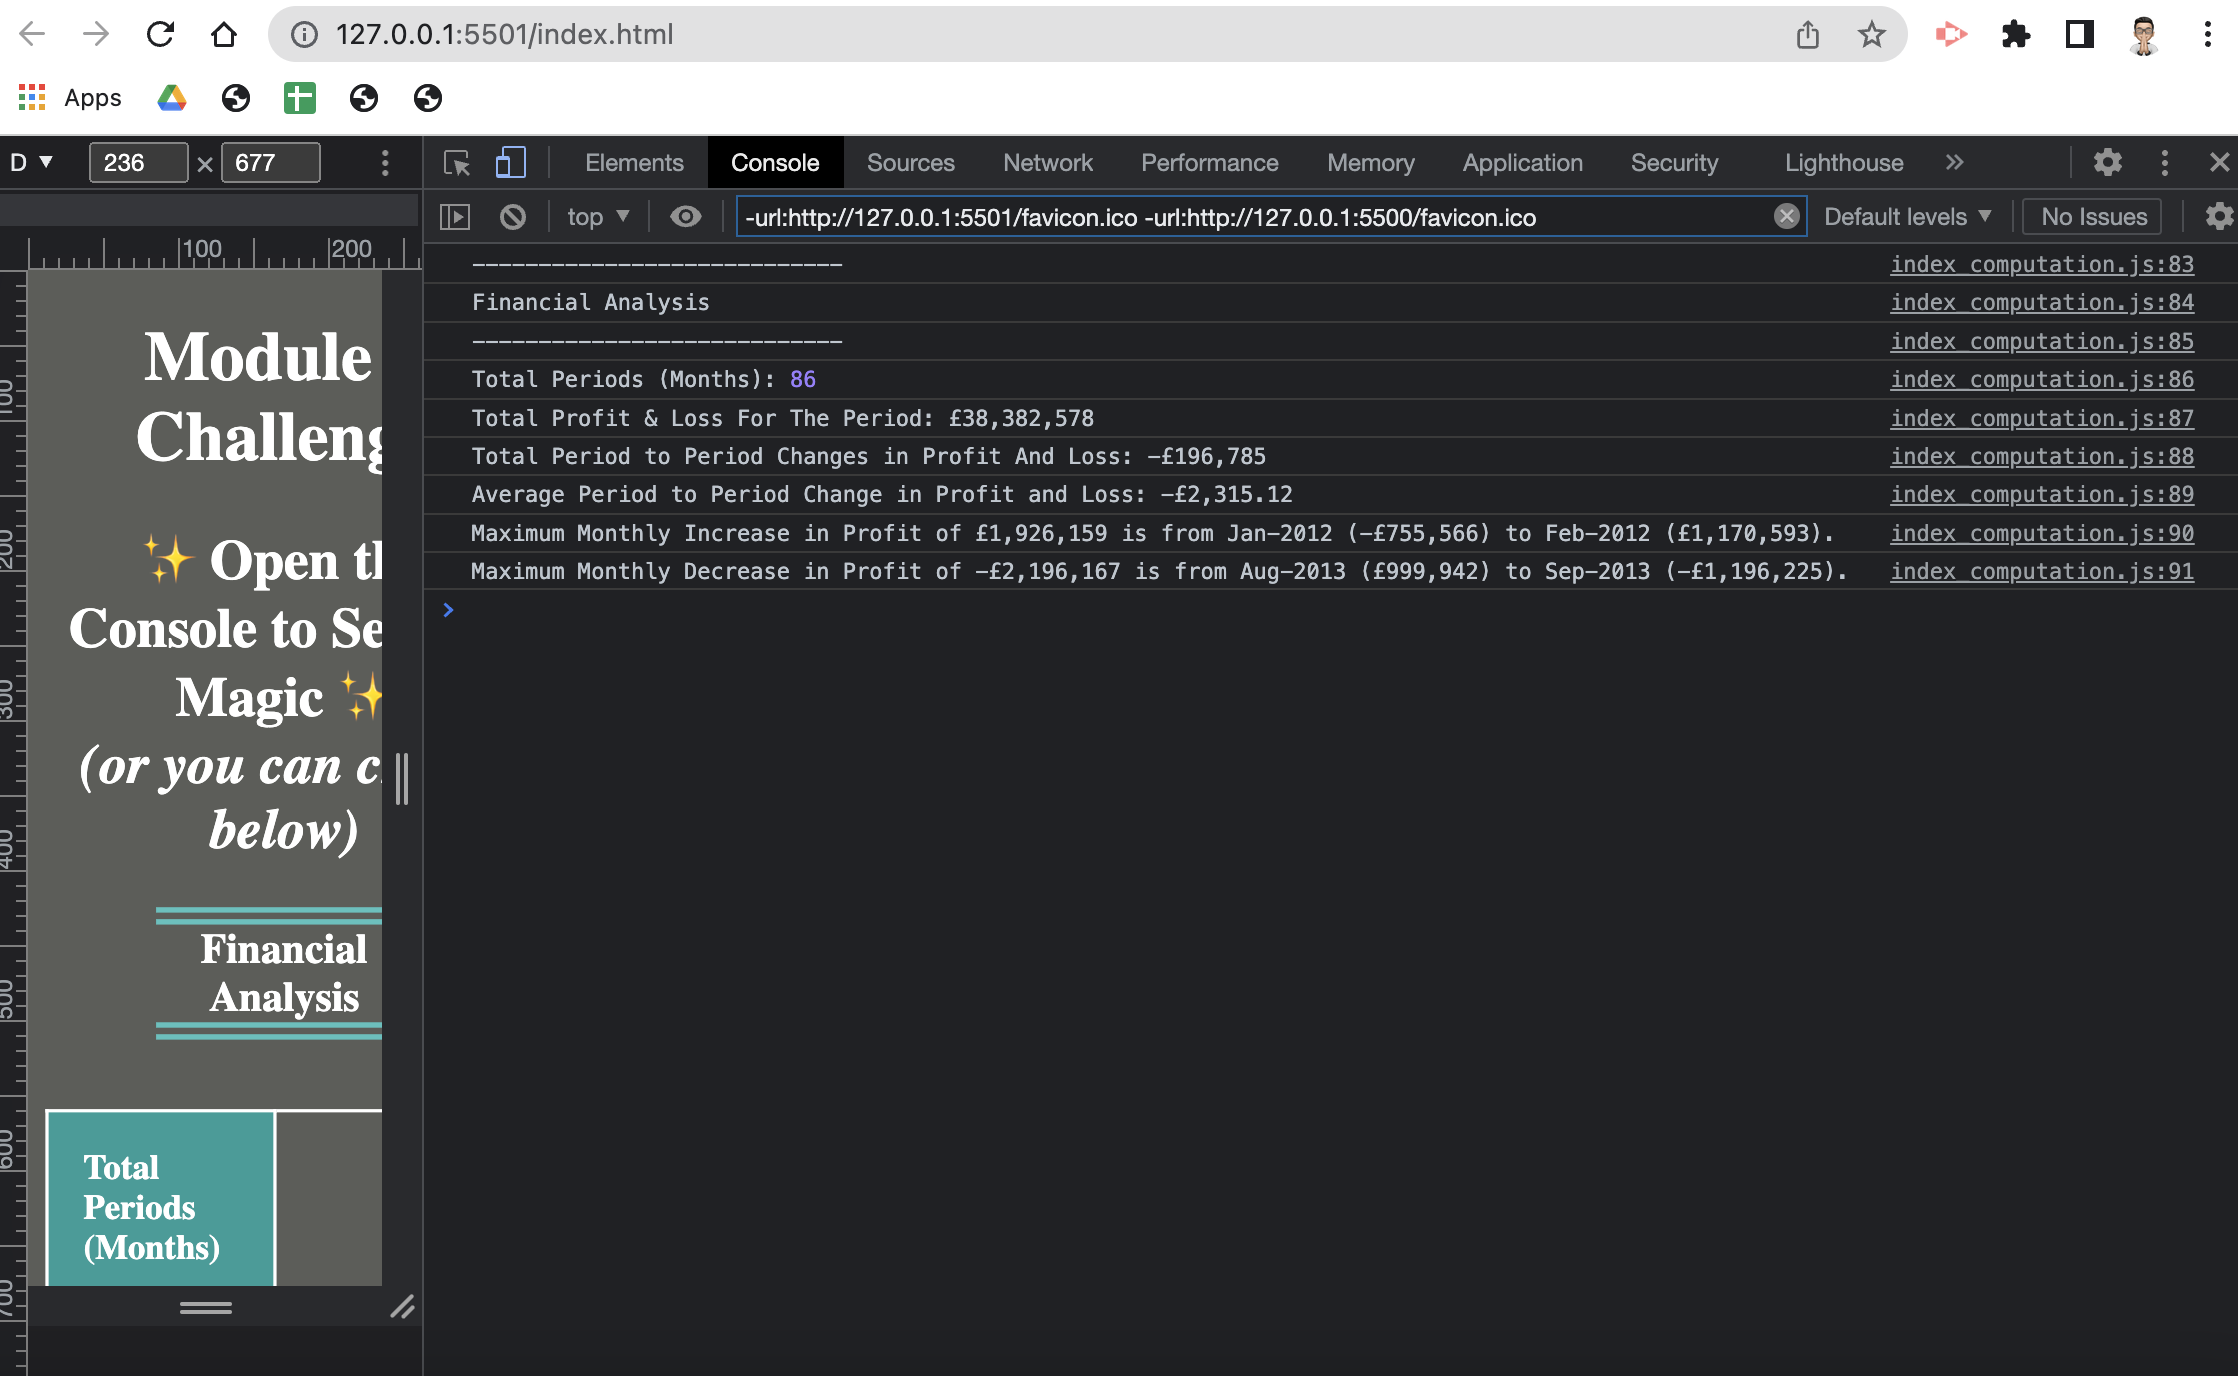
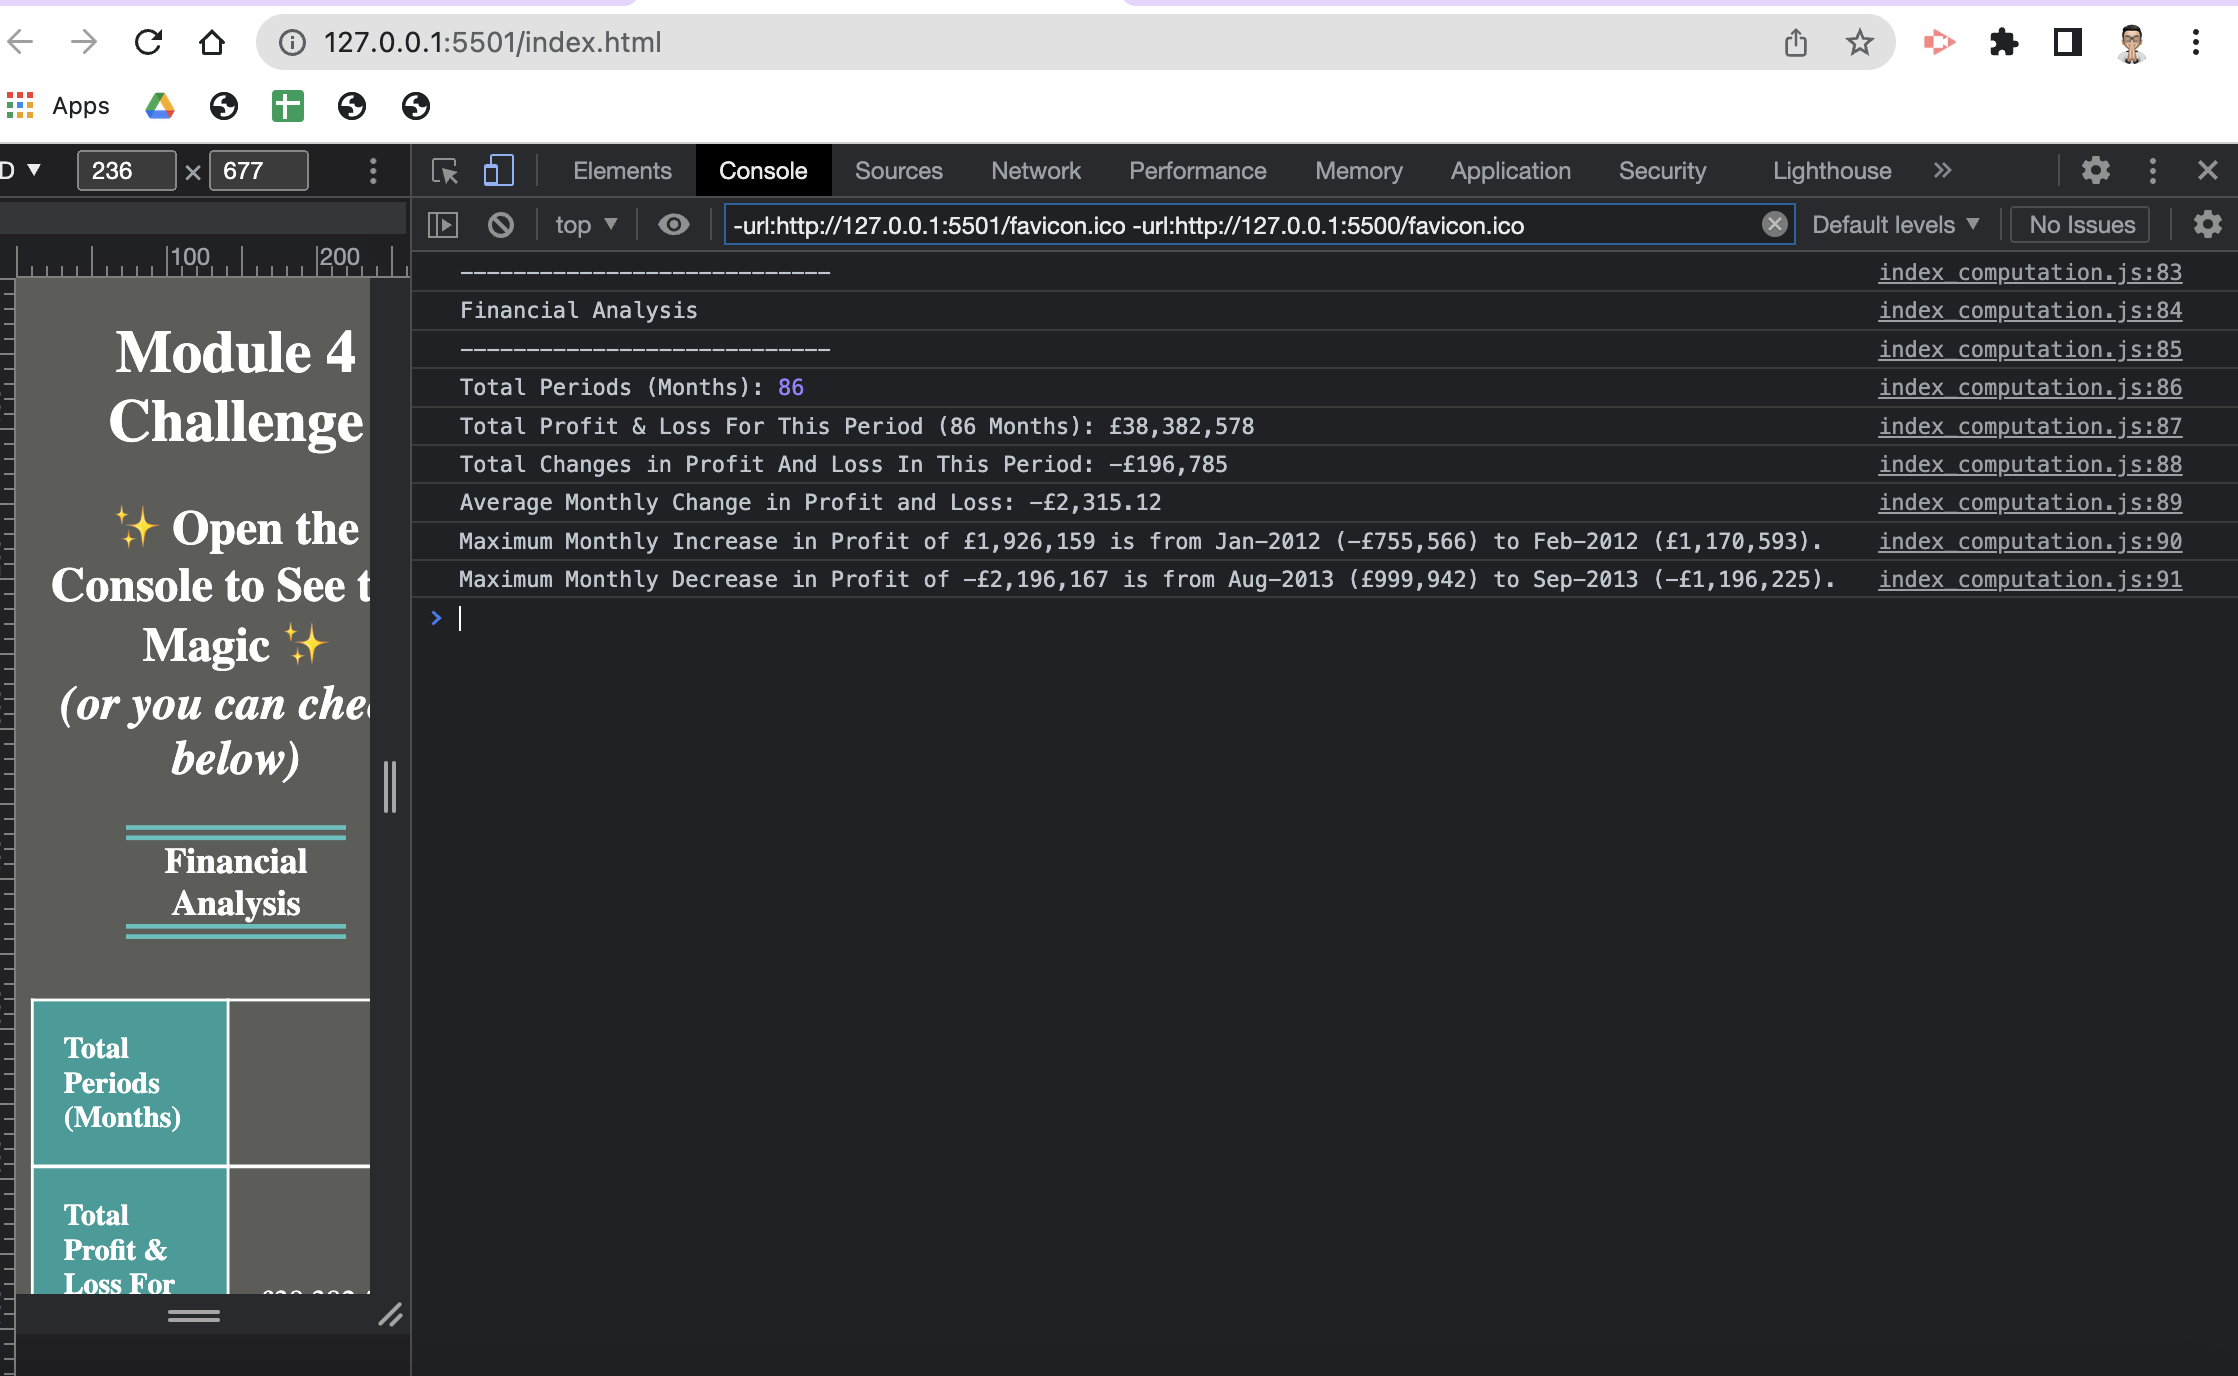
changed the screen shots|

Changed region(s): [[0.0, 0.0, 1.0, 0.9688]]

diff --git a/assets/scripts/displayToHtml.js b/assets/scripts/displayToHtml.js
@@ -4,9 +4,9 @@
 
 document.getElementById("tableFinAna").innerHTML = 
     ("<tr><th>Total Periods (Months)</th><td class='contentPLAmt'>" + periodNumTotal + "</td></tr>"
-    + "<tr><th>Total Profit & Loss For These " + periodNumTotal + " Months</th><td class='contentPLAmt'>" + formatAmount(netProfitLoss, 0) + "</td></tr>"
-    + "<tr><th>Total Period to Period Changes in Profit & Loss</th><td class='contentPLAmt'>" + formatAmount(plCompareNetTotal, 0)  + "</td></tr>"
-    + "<tr><th>Average Period to Period Change in Profit & Loss</th><td class='contentPLAmt'>" + formatAmount(plCompareNetTotal / (periodNumTotal - 1), 2) + "</td></tr>"
+    + "<tr><th>Total Profit & Loss For This Period (" + periodNumTotal + " Months)</th><td class='contentPLAmt'>" + formatAmount(netProfitLoss, 0) + "</td></tr>"
+    + "<tr><th>Total Monhly Changes in Profit & Loss</th><td class='contentPLAmt'>" + formatAmount(plCompareNetTotal, 0)  + "</td></tr>"
+    + "<tr><th>Average Monthly Change in Profit & Loss</th><td class='contentPLAmt'>" + formatAmount(plCompareNetTotal / (periodNumTotal - 1), 2) + "</td></tr>"
     );
 
 document.getElementById("maxIncreasePL").innerHTML = ("Maximum Monthly Increase in Profit of <strong>" + formatAmount(maxProfitAmtD,0) + "</strong> is from <strong>" + maxProfitMthFrom + "</strong> <strong><em>(" + formatAmount(maxProfitAmtFrom, 0) + ")</strong></em> to <strong>" + maxProfitMthTo + "</strong> <strong><em>("+ formatAmount(maxProfitAmtTo , 0) + ")</strong></em>.");

diff --git a/assets/scripts/index_computation.js b/assets/scripts/index_computation.js
@@ -84,8 +84,8 @@ console.log("----------------------------");
 console.log("Financial Analysis");
 console.log("----------------------------");
 console.log("Total Periods (Months):", periodNumTotal );
-console.log("Total Profit & Loss For The Period: " + formatAmount(netProfitLoss, 0));
-console.log("Total Period to Period Changes in Profit And Loss: " + formatAmount(plCompareNetTotal, 0));
-console.log("Average Period to Period Change in Profit and Loss: " + formatAmount(plCompareNetTotal / (periodNumTotal - 1), 2));
+console.log("Total Profit & Loss For This Period (" + periodNumTotal, "Months): " + formatAmount(netProfitLoss, 0));
+console.log("Total Changes in Profit And Loss In This Period: " + formatAmount(plCompareNetTotal, 0));
+console.log("Average Monthly Change in Profit and Loss: " + formatAmount(plCompareNetTotal / (periodNumTotal - 1), 2));
 console.log("Maximum Monthly Increase in Profit of", formatAmount(maxProfitAmtD,0), "is from", maxProfitMthFrom, "(" + formatAmount(maxProfitAmtFrom, 0) + ") to", maxProfitMthTo, "("+ formatAmount(maxProfitAmtTo , 0) + ").");
 console.log("Maximum Monthly Decrease in Profit of", formatAmount(maxLossAmtD, 0), "is from", maxLossMthFrom, "(" + formatAmount(maxLossAmtFrom, 0) + ") to", maxLossMthTo, "("+ formatAmount(maxLossAmtTo, 0) + ").");
